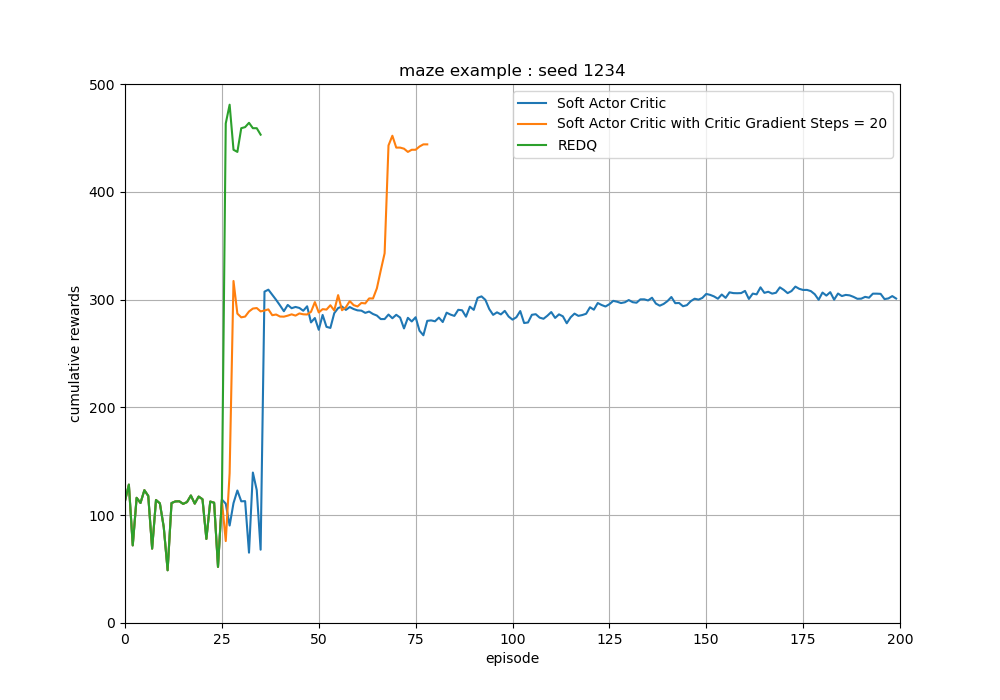
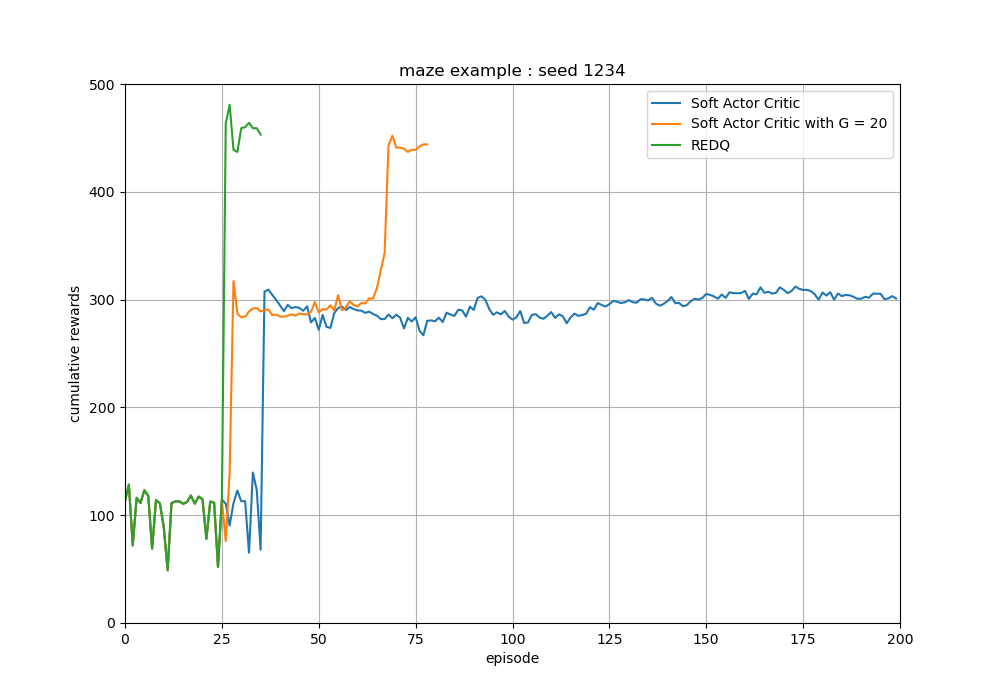
modify the result legend

Changed region(s): [[0.527, 0.12, 0.837, 0.24]]

diff --git a/maze_example/plot_results.py b/maze_example/plot_results.py
@@ -26,7 +26,7 @@ def main_plot():
     
     ax1.plot(sac_data[:, 2], label="Soft Actor Critic")
     
-    ax1.plot(sac_g20_data[:, 2], label="Soft Actor Critic with Critic Gradient Steps = 20")
+    ax1.plot(sac_g20_data[:, 2], label="Soft Actor Critic with G = 20")
     
     ax1.plot(redq_data[:, 2], label="REDQ")
     
